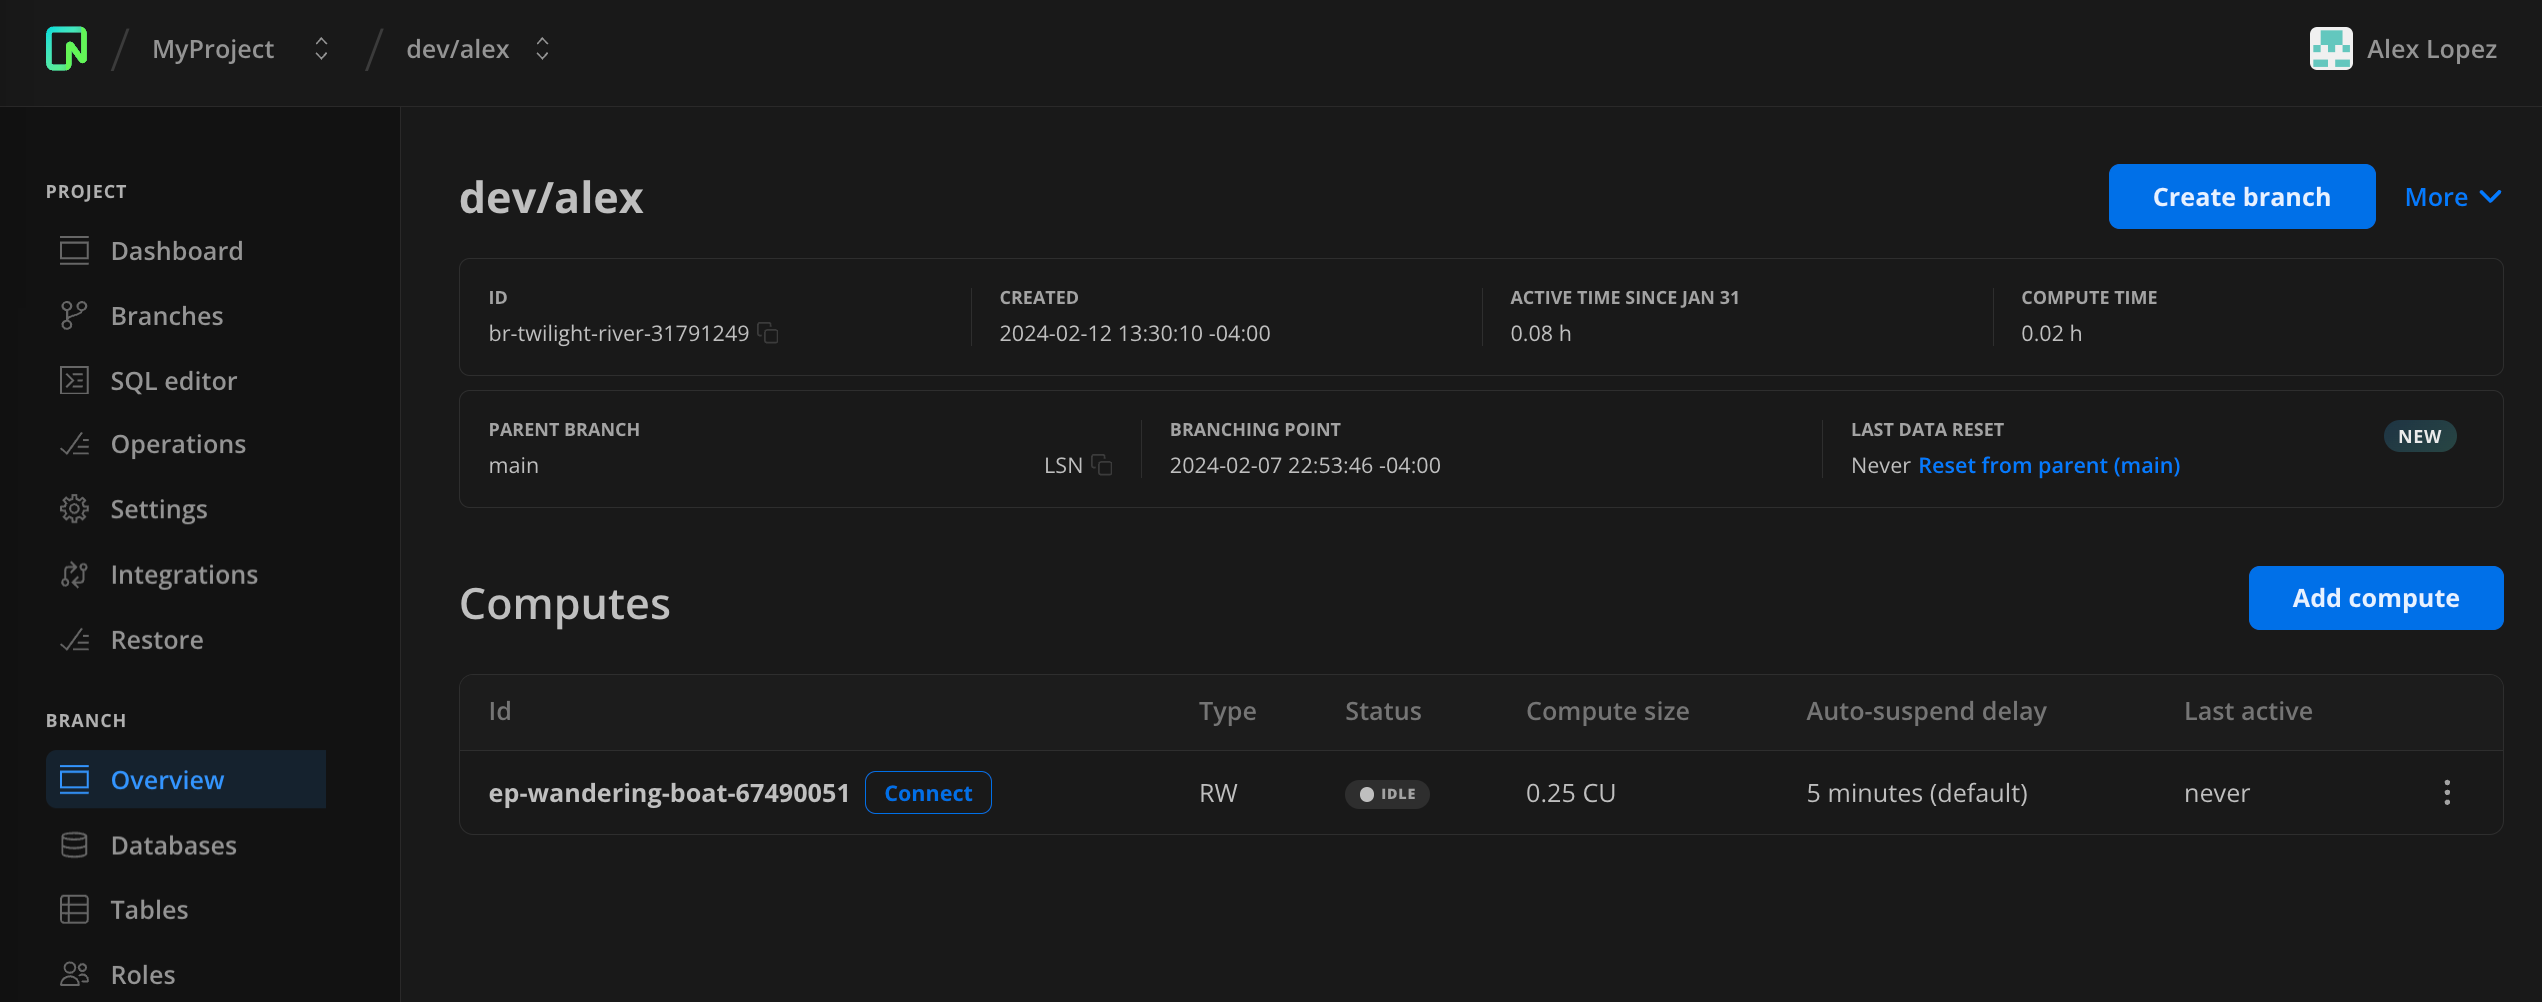
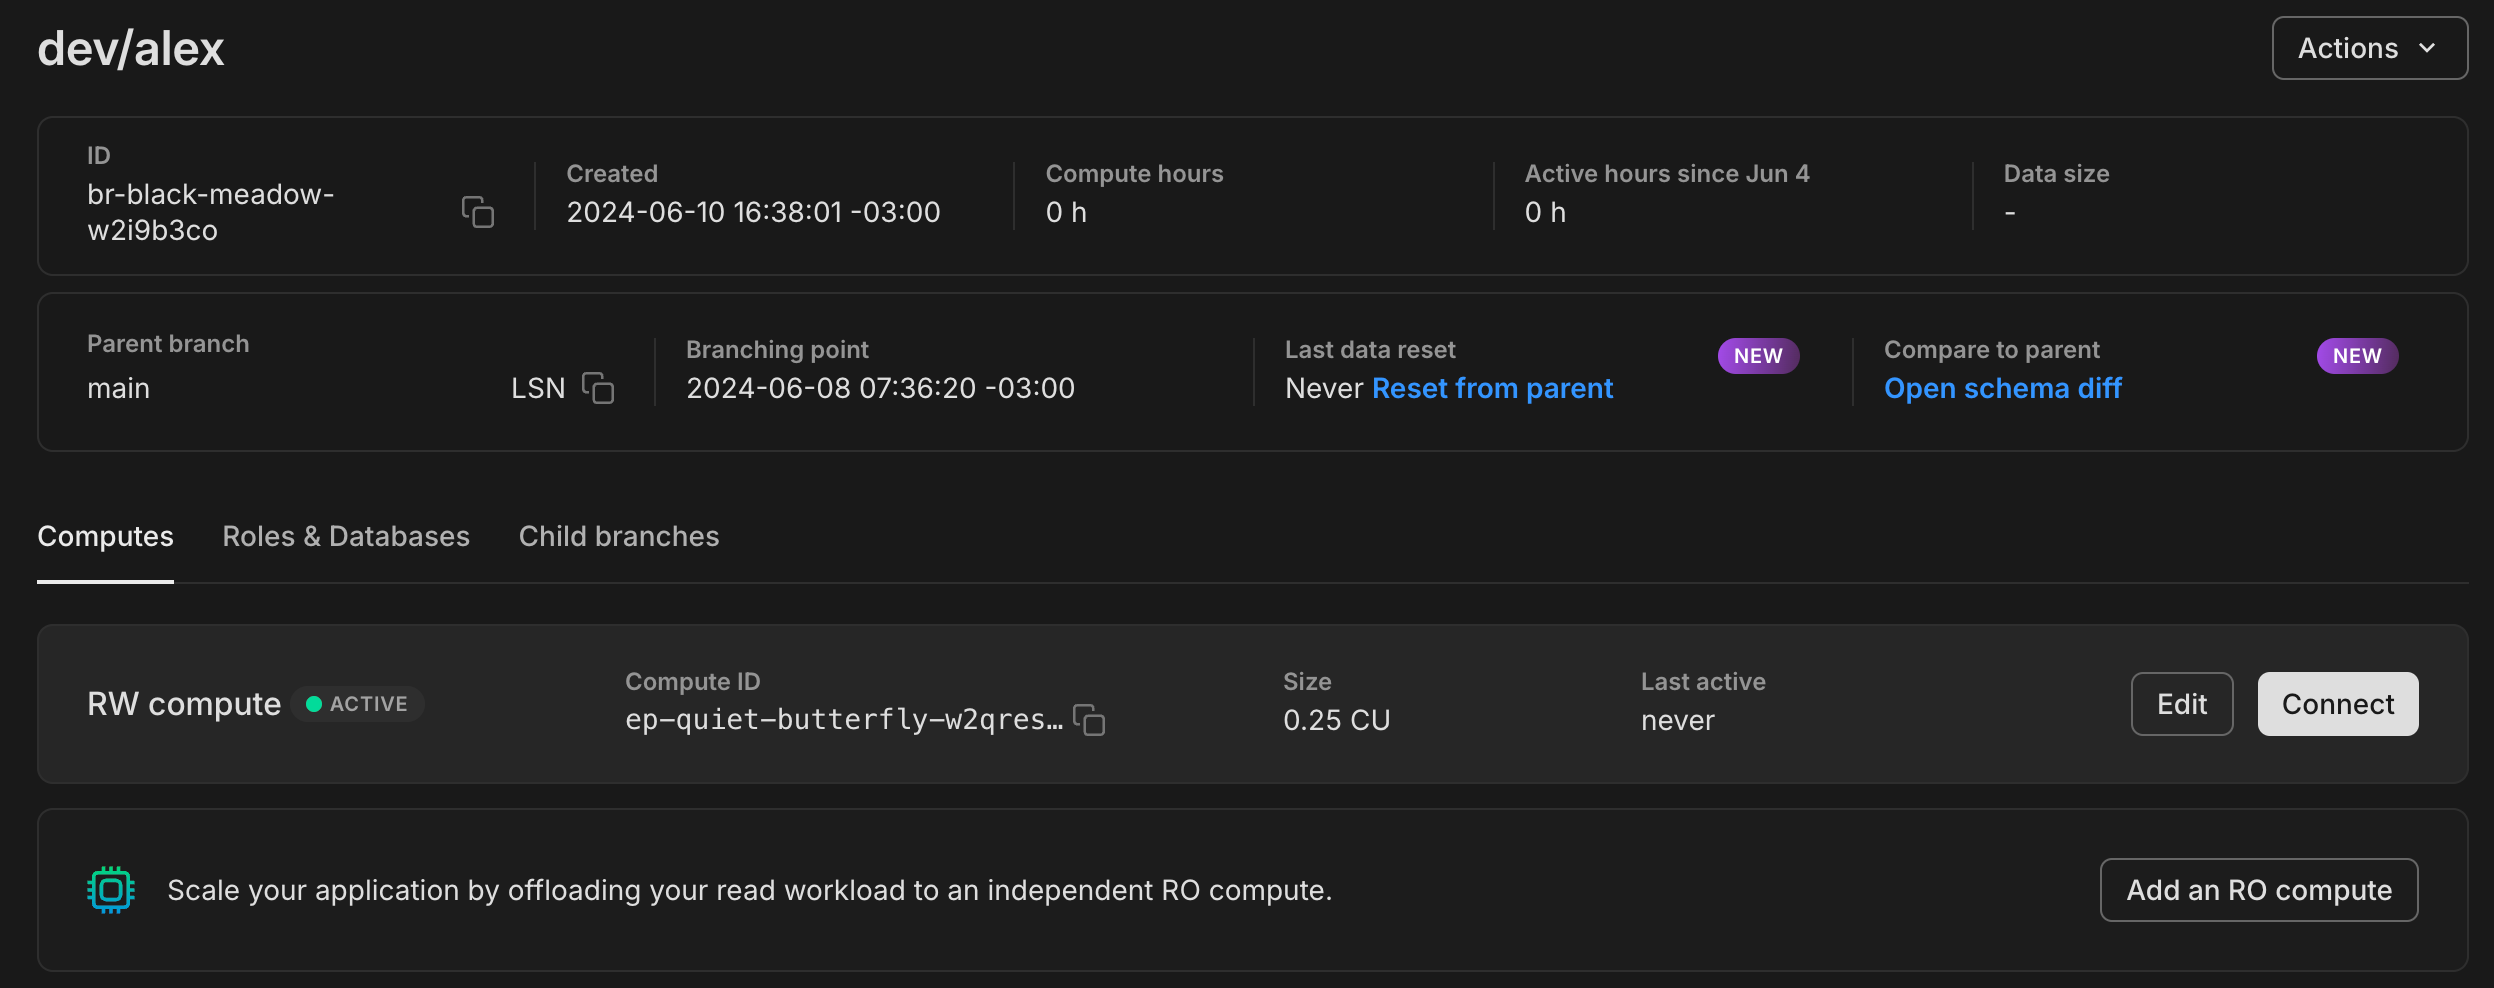
docs: updates for new branches page

diff --git a/content/docs/manage/branches.md b/content/docs/manage/branches.md
@@ -42,7 +42,7 @@ To create a branch:
 
 1. In the Neon Console, select a project.
 2. Select **Branches**.
-3. Click **New Branch** to open the branch creation dialog.
+3. Click **Create branch** to open the branch creation dialog.
 ![Create branch dialog](/docs/manage/create_branch.png)
 4. Enter a name for the branch.
 5. Select a parent branch. You can branch from your Neon project's [primary branch](#primary-branch) or a [non-primary branch](#non-primary-branch).
@@ -52,7 +52,7 @@ To create a branch:
     - **Specific Log Sequence Number**: Creates a branch with data up to a specific [Log Sequence Number (LSN)](/docs/reference/glossary#lsn) in the database log, allowing for precise point-in-time restore.
 
     <Admonition type="note">
-    The **Specific date and time** and the **Specific Log Sequence Number Data** options do not include data changes that occured after the specified date and time or LSN, which means the branch contains data as it existed previously, allowing for point-in-time restore. You can only specify a date and time or LSN value that falls within your history retention window. See [Configure history retention](/docs/manage/projects#configure-history-retention).
+    The **Specific date and time** and the **Specific Log Sequence Number Data** options do not include data changes that occurred after the specified date and time or LSN, which means the branch contains data as it existed previously, allowing for point-in-time restore. You can only specify a date and time or LSN value that falls within your history retention window. See [Configure history retention](/docs/manage/projects#configure-history-retention).
     </Admonition>
 
 8. Click **Create new branch** to create your branch.
@@ -72,8 +72,8 @@ To view the branches in a Neon project:
 
    - **Parent**: Indicates the parent from which this branch was created, helping you track your branch hierarchy.
    - **Active time**: Number of hours the branch's compute was active so far in the current billing period.
-   - **RW Compute**: Shows the current compute size and activity status for the branch's compute.
-   - **Data size**: Indicates the logical data size of each branch, helping you monitor your plan's storage limit. Does not include shared history.
+   - **RW Compute**: Shows the current compute size and status for the branch's compute.
+   - **Data size**: Indicates the logical data size of each branch, helping you monitor your plan's storage limit. Data size does not include history.
    - **Last active**: Shows when the branch's compute was last active.
 
 1. Select a branch from the table to view details about the branch.
@@ -84,13 +84,20 @@ To view the branches in a Neon project:
 
     - **ID**: The branch ID. Branch IDs have a `br-` prefix.
     - **Created**: The date and time the branch was created.
-    - **Active  Since**: The active hours used by the branch compute in the current billing period.
-    - **Compute Time**: The compute hours used by the branch in the current billing period.
-    - **Parent Branch**: The branch from which this branch was created (only applicable to child branches).
-    - **Branching Point**: The point in time, in terms of data, from which the branch was created (only applicable to child branches).
-    - **Last Data Reset**: The last time the branch was reset from the parent branch (only applicable to child branches).
+    - **Compute hours**: The compute hours used by the branch in the current billing period.
+    - **Active hours since**: The active hours used by the branch compute in the current billing period.
+    - **Data size**: The logical data size of the branch. Data size does not include history.
+    - **Parent branch**: The branch from which this branch was created (only applicable to child branches).
+    - **Branching point**: The point in time, in terms of data, from which the branch was created (only applicable to child branches).
+    - **Last data reset**: The last time the branch was reset from the parent branch (only applicable to child branches). For information about the **Reset from parent** option, see [Reset from parent](/docs/guides/reset-from-parent).
+    - **Compare from parent**: For information about the **Open schema diff** option, see [Schema diff](/docs/guides/schema-diff).
 
-The branch details page also includes details about the compute endpoint associated with the branch. For more information, see [View a compute endpoint](/docs/manage/endpoints#view-a-compute-endpoint).
+The branch details page also includes details about the **Computes**, **Roles & Databases**, and **Child branches** that belong to the branch. In Neon, all of these obejects are associated with a branch. For information about these objects, see:
+
+- [Manage computes](/docs/manage/endpoints#view-a-compute-endpoint).
+- [Manage roles](/docs/manage/roles)
+- [Manage databases](/docs/manage/databases)
+- [View branches](#view-branches)
 
 ## Rename a branch
 
@@ -99,7 +106,7 @@ Neon permits renaming a branch, including your project's primary branch. To rena
 1. In the Neon Console, select a project.
 2. Select **Branches** to view the branches for the project.
 3. Select a branch from the table.
-4. On the branch page, click the **More** drop-down menu and select **Rename**.
+4. On the branch page, click the **Actions** drop-down menu and select **Rename**.
 5. Specify a new name for the branch and click **Save**.
 
 ## Set a branch as primary
@@ -111,7 +118,7 @@ To set a branch as the primary branch:
 1. In the Neon Console, select a project.
 2. Select **Branches** to view the branches for the project.
 3. Select a branch from the table.
-4. On the branch page, click the **More** drop-down menu and select **Set as primary**.
+4. On the branch page, click the **Actions** drop-down menu and select **Set as primary**.
 5. In the **Set as primary** confirmation dialog, click **Set as Primary** to confirm your selection.
 
 ## Set a branch as protected
@@ -163,7 +170,7 @@ If you want to connect from an application, the **Connection Details** widget on
 
 Use Neon's **Reset from parent** feature to instantly update a branch with the latest schema and data from its parent. This feature can be an integral part of your CI/CD automation.
 
-You can use the Neon Console, CLI, or API. For more detail, see [Reset from parent](/docs/guides/reset-from-parent).
+You can use the Neon Console, CLI, or API. For more details, see [Reset from parent](/docs/guides/reset-from-parent).
 
 ## Restore a branch to its own or another branch's history
 
@@ -173,7 +180,7 @@ There are several restore operations available using Neon's Branch Restore featu
 - Restore a branch to the head of another branch
 - Restore a branch to the history of another branch
 
-You can use the Neon Console, CLI, or API. For more detail, see [Branch Restore](/docs/guides/branch-restore).
+You can use the Neon Console, CLI, or API. For more details, see [Branch Restore](/docs/guides/branch-restore).
 
 ## Delete a branch
 
